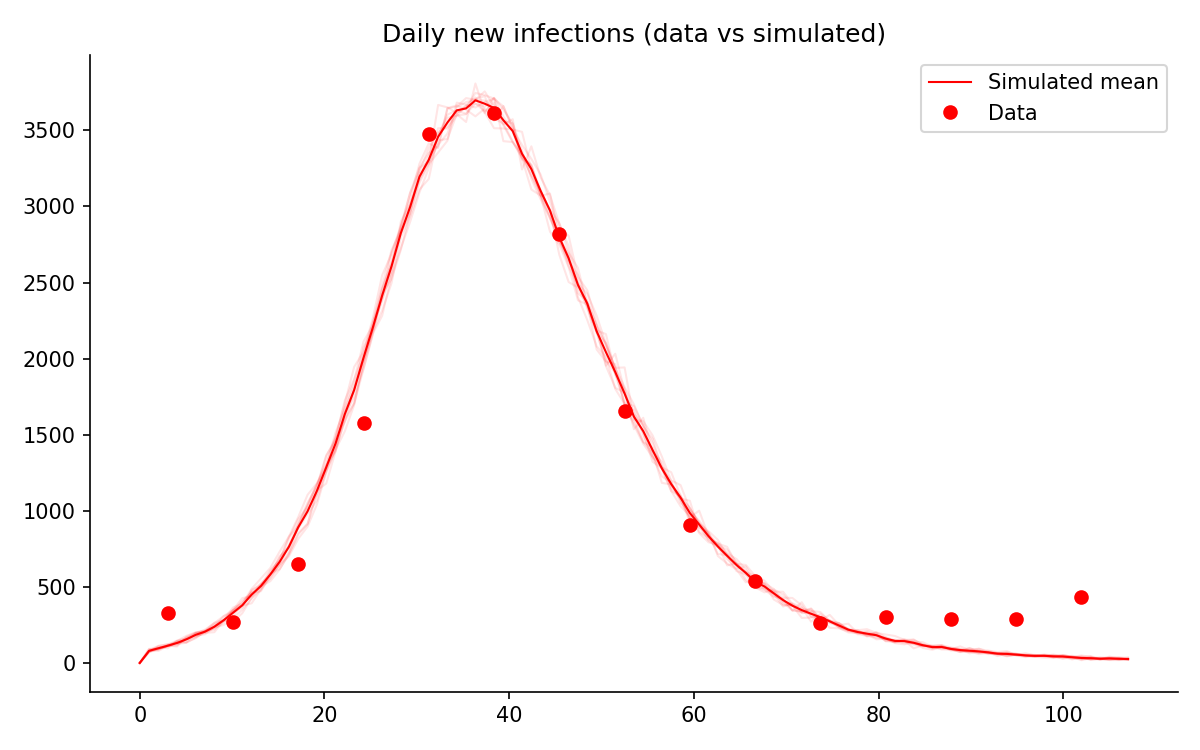
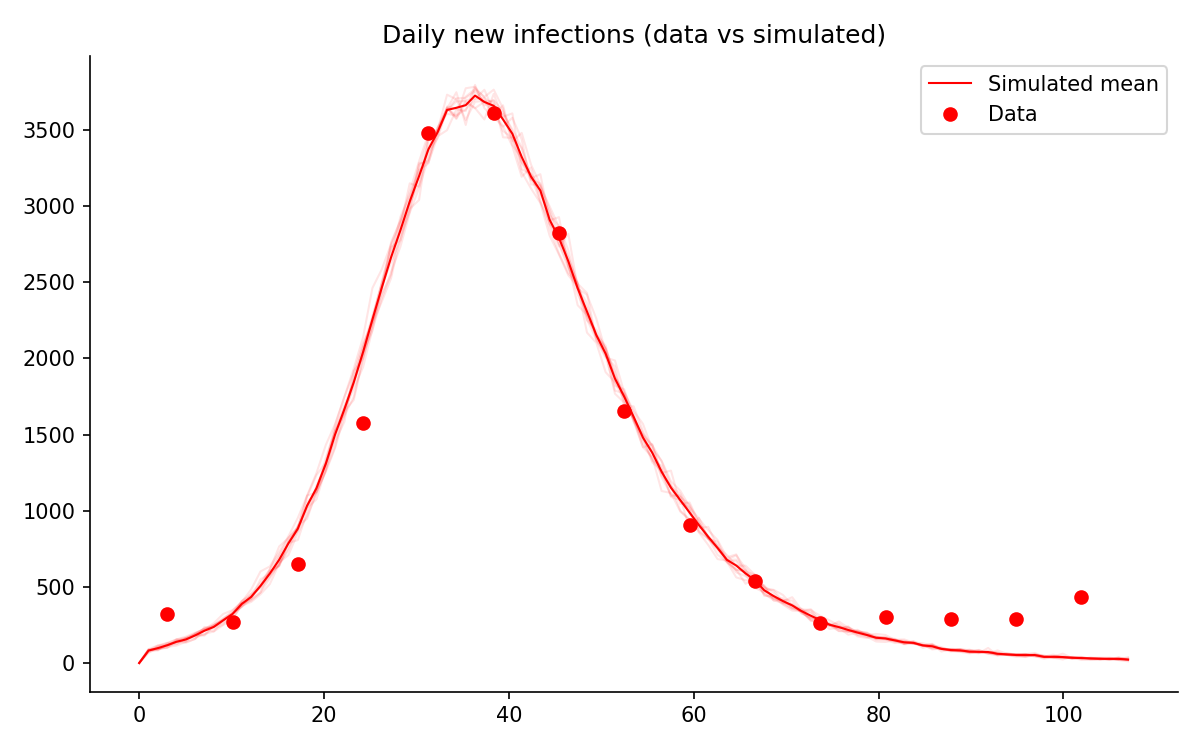
adding new poss. functions for V

diff --git a/co_evolution_modified.py b/co_evolution_modified.py
@@ -8,6 +8,7 @@ from sim_plot import (
     plot_infection_histories,
     ridge_plot_ensemble_hist,
 )
+import sys
 
 # !/usr/bin/env python3
 # -*- coding: utf-8 -*-
@@ -76,7 +77,7 @@ class opinion_dynamics:
         self.infection_num_array = np.zeros(num_grid_points)
         self.nu = np.array(stochiomatric_vectors)
 
-        _expected_params = {"sigmoid": 1, "polynomial": 2}
+        _expected_params = {"sigmoid": 1, "polynomial": 2, "double_well" : 2, "gaussian" : 4}
         if len(grad_V_params) != _expected_params[grad_V]:
             raise ValueError(
                 f"grad_V_params should have length {_expected_params[grad_V]} for choice of {grad_V}"
@@ -115,7 +116,27 @@ class opinion_dynamics:
                     * self.opinions_curr**2
                     * self.dt
                 )
-
+            elif self.grad_V == 'double_well':
+                a_I = self.grad_V_params[0] + self.grad_V_params[1] * infected_frac
+                self.opinions_curr -= (self.opinions_curr**3 - a_I * self.opinions_curr) * self.dt
+            elif self.grad_V == "gaussian":
+                mu0 = self.grad_V_params[0]
+                alpha = self.grad_V_params[1]
+                sigma = self.grad_V_params[2]
+                w = self.grad_V_params[3]
+            
+                infected_frac = self.infection_curr[1] / self.N
+                mu_I = mu0 + alpha * infected_frac
+            
+                diff = self.opinions_curr - mu_I
+            
+                self.opinions_curr -= (
+                    w * (diff / (sigma**2))
+                    * np.exp(- (diff**2) / (2 * sigma**2))
+                ) * self.dt
+            else:
+                print(f'unknown grad V: {self.grad_V}')
+                sys.exit(1)
             self.opinions_curr = np.clip(self.opinions_curr, -3.5, 3.5)
             self.opinion_array[i] = np.copy(self.opinions_curr)
 
@@ -216,7 +237,12 @@ def main():
     sim_length = len(opinion_data)
     initial_opinion = opinion_sampler(opinion_data[0], NUM_AGENTS)
 
-    params = (-1 * 10 ** (-3.55),)
+    params = (-1 * 10 ** (-3.55),) #sigmoid
+    #params = (-1.26e-7, 1.845e-3, 5.88e-2) #sigmoid old
+    #params = (1.15437545,0.66582349) # double well
+    #params = (-7.5855335,-2.82298756,-1.19457985) # sigmoid
+    #params = (-0.62589487,-1.03545536) # polynomial
+    #params = (1.20785755,0.75882561,0.32276008,0.30269294) #gaussian
     print(
         "Simulation parameters:\n",
         f"Number of agents: {NUM_AGENTS}\n",

diff --git a/optimization.py b/optimization.py
@@ -189,8 +189,11 @@ def loss(
 
 if __name__ == "__main__":
     # Perform the optimization over the parameters of the model function for coupling opinions with infections, and its gradient
-    initial_guess = [-4]
-
+    initial_guess = [-4] #sigmoid
+    #initial_guess = [-6.5, -2.5, -1.5] #sigmoid old
+    #initial_guess = [0.5, 1.0] #double well
+    #initial_guess = [-2.0, 0.5]  # polynomial
+    #initial_guess = [0.0, 1.0, 0.5, 1.0] #gaussian
     # Choose start and end dates for infection data and opinion data
     start_date = datetime(2020, 3, 12)
     end_date = datetime(2020, 6, 26)
@@ -236,7 +239,10 @@ if __name__ == "__main__":
     with futures.ProcessPoolExecutor(max_workers=NUM_WORKERS) as pool:
         result = differential_evolution(
             func=loss,
-            bounds=[(-4.4, -3.5)],
+            bounds=[(-4.4, -3.5)], #sigmoid
+            #bounds=[(-8, -5), (-4, -1), (-3, 0)], #sigmoid old
+            #bounds = [(-2, 2), (-5, 5)], #double well and polynomial
+            #bounds = [(-2.0, 2.0),(-5.0, 5.0),(0.1, 2.0),(0.1, 5.0)], # gaussian
             x0=initial_guess,
             args=(
                 opinion_data,
